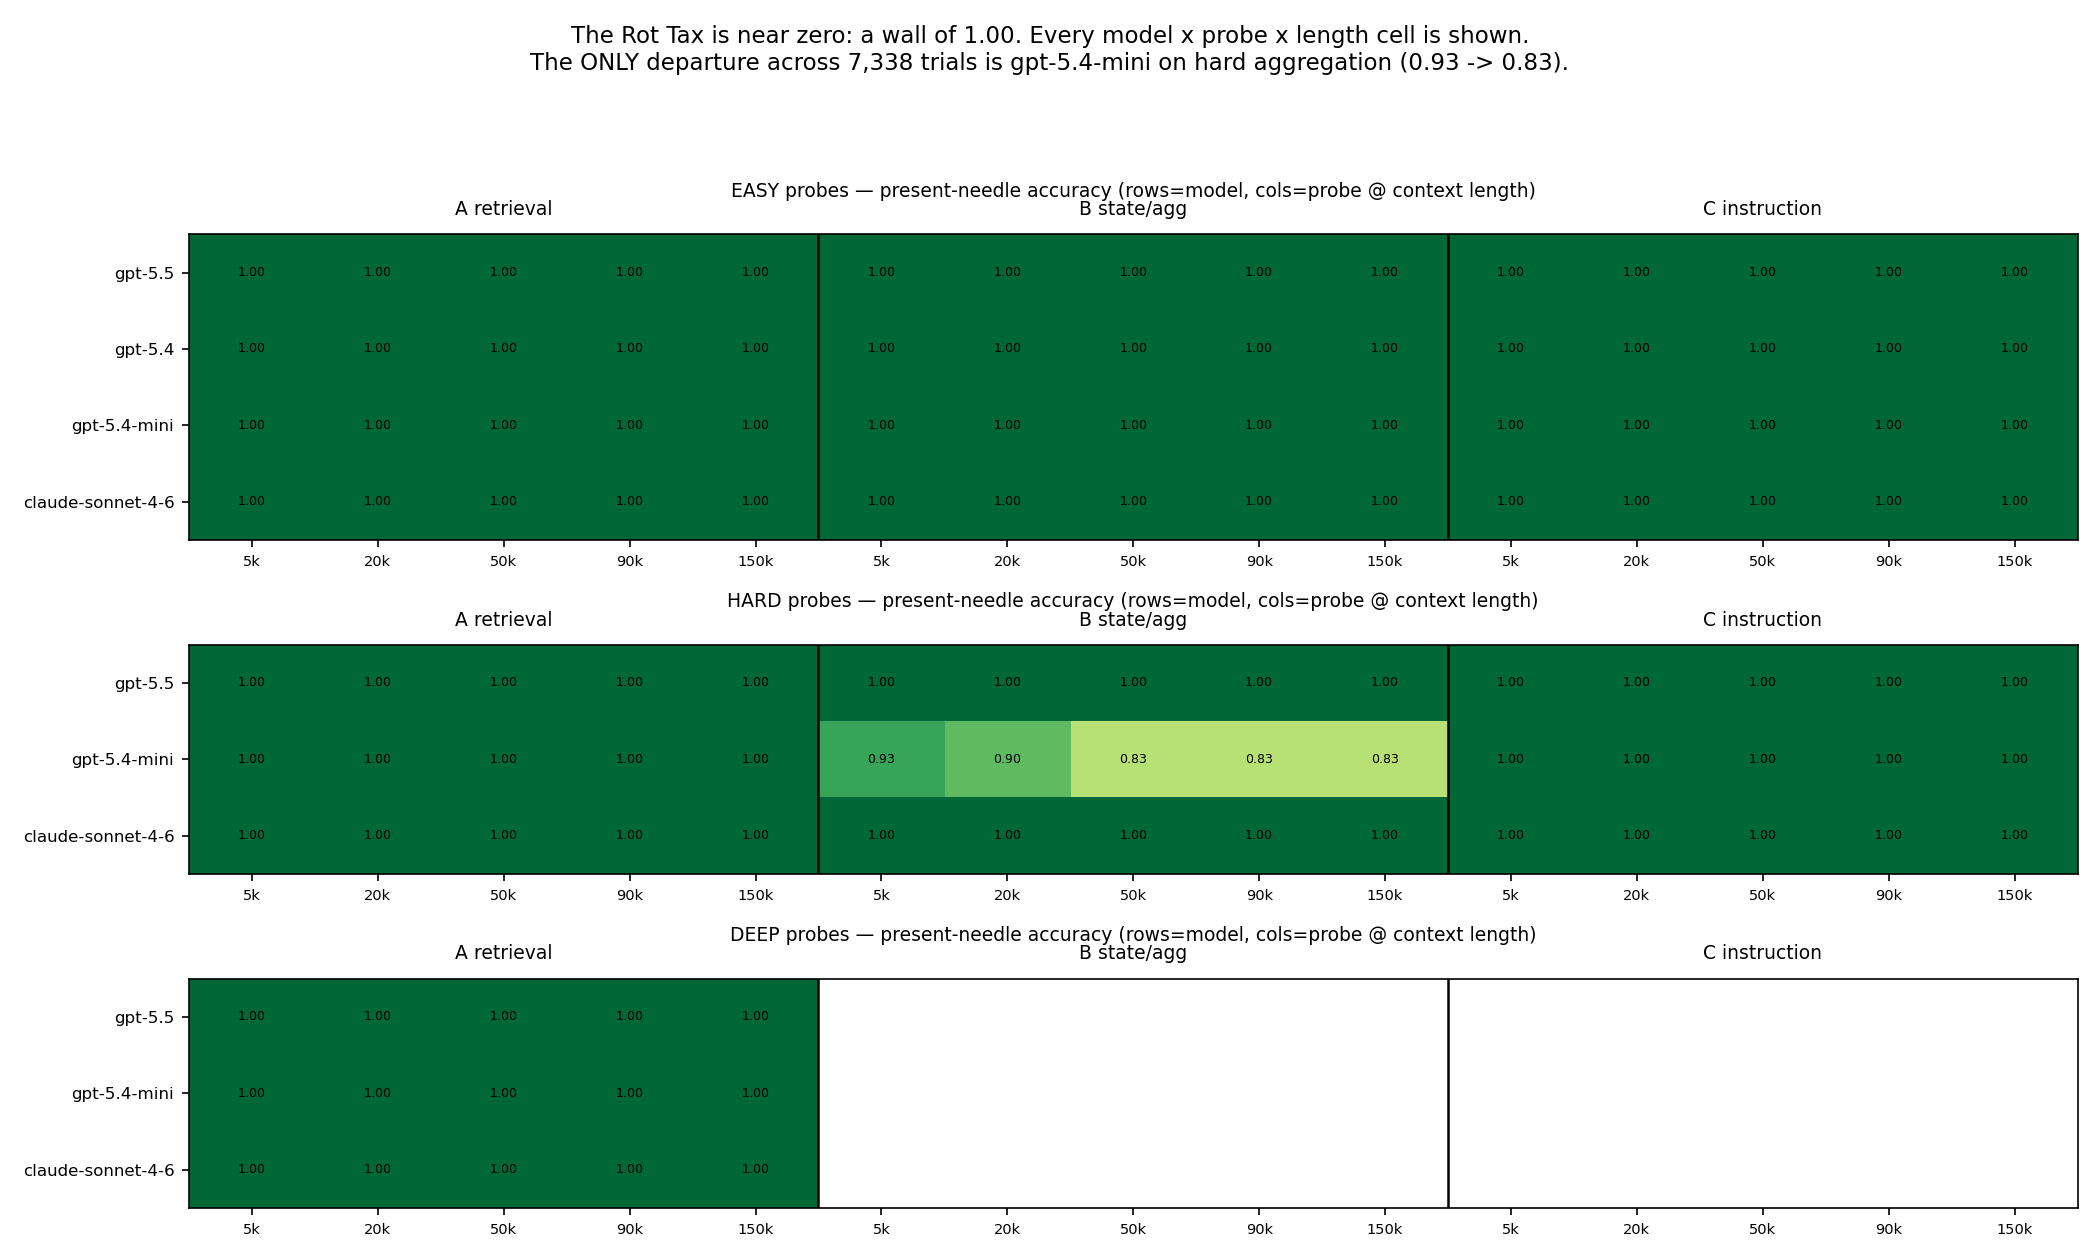
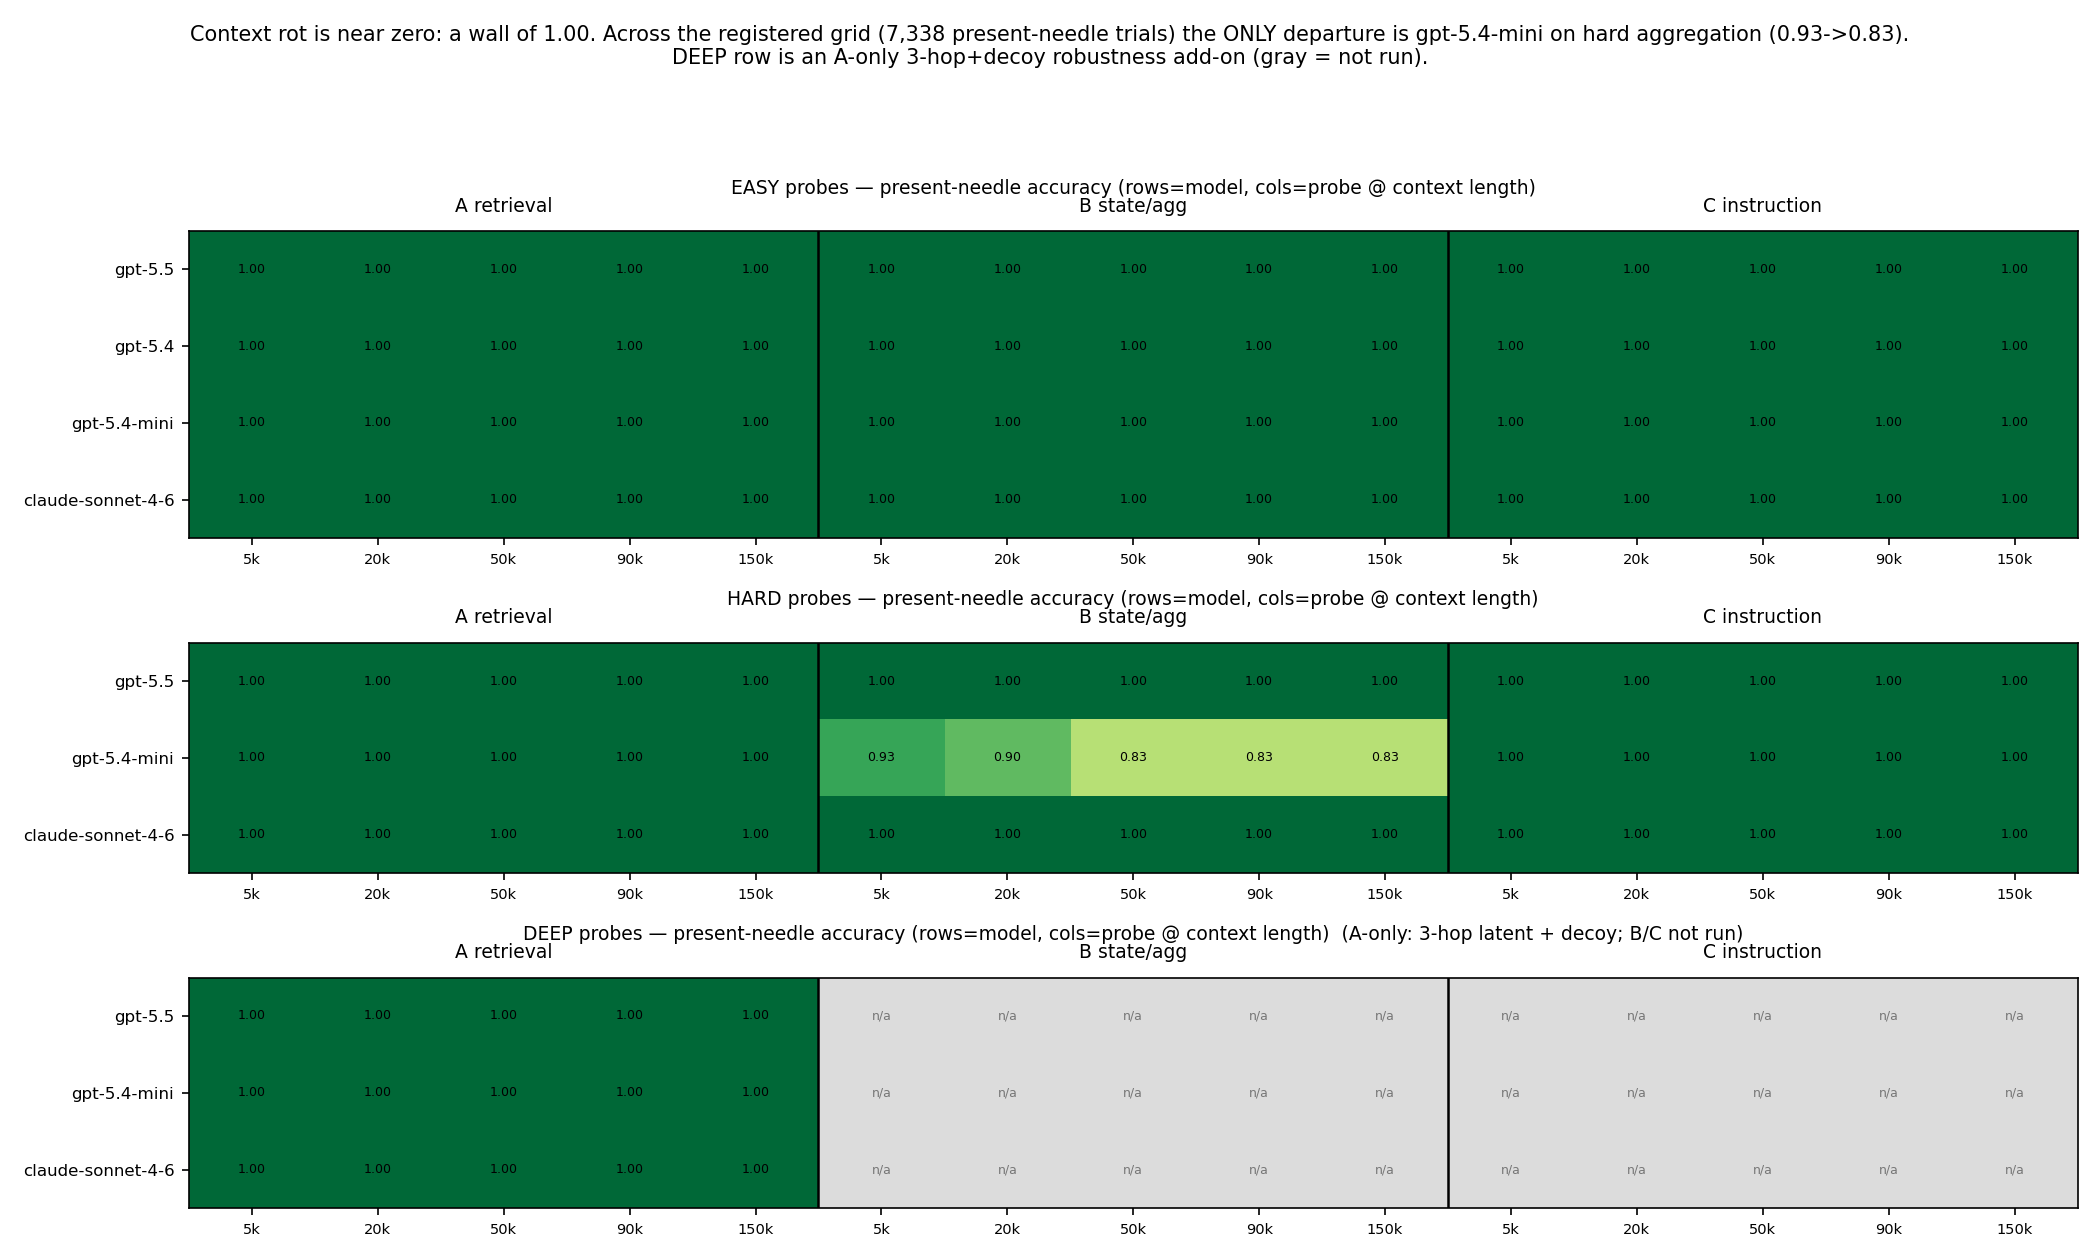
Figure: mark deep-row B/C as gray 'n/a' (A-only by design), clarify titles
Deep probe is latent-retrieval-only (closes the 2-hop limitation); B/C were
not run. Heatmap now renders not-run cells as gray 'n/a' instead of blank,
with the deep subplot title and suptitle stating it explicitly.

diff --git a/harness/paper_assets.py b/harness/paper_assets.py
@@ -131,25 +131,30 @@ def main():
                 cell = sub[(sub["model"] == m) & (sub["probe_id"] == p) & (sub["target_tokens"] == t)]
                 if len(cell):
                     M[i, j] = cell["passed"].mean()
-        im = ax.imshow(M, cmap="RdYlGn", vmin=0.5, vmax=1.0, aspect="auto")
+        cmap = matplotlib.cm.get_cmap("RdYlGn").copy()
+        cmap.set_bad("#dcdcdc")  # not-run cells render gray, distinct from any low score
+        im = ax.imshow(np.ma.masked_invalid(M), cmap=cmap, vmin=0.5, vmax=1.0, aspect="auto")
         ax.set_xticks(range(len(cols))); ax.set_xticklabels(col_labels, fontsize=7)
         ax.set_yticks(range(len(models))); ax.set_yticklabels(models, fontsize=8)
         for i in range(len(models)):
             for j in range(len(cols)):
                 v = M[i, j]
-                if not np.isnan(v):
+                if np.isnan(v):
+                    ax.text(j, i, "n/a", ha="center", va="center", fontsize=6, color="#777")
+                else:
                     ax.text(j, i, f"{v:.2f}", ha="center", va="center", fontsize=6,
                             color="black" if v > 0.7 else "white")
-        # probe-group separators + labels
         for k in range(1, len(PROBES)):
             ax.axvline(k * len(Ts) - 0.5, color="black", lw=1.2)
         for k, p in enumerate(PROBES):
             ax.text(k * len(Ts) + len(Ts) / 2 - 0.5, -0.75, PRETTY[p], ha="center", fontsize=9)
-        ax.set_title(f"{ps.upper()} probes — present-needle accuracy (rows=model, cols=probe @ context length)",
-                     fontsize=9, pad=18)
-    fig.suptitle("The Rot Tax is near zero: a wall of 1.00. Every model x probe x length cell is "
-                 "shown.\nThe ONLY departure across 7,338 trials is gpt-5.4-mini on hard "
-                 "aggregation (0.93 -> 0.83).", fontsize=11)
+        extra = "  (A-only: 3-hop latent + decoy; B/C not run)" if ps == "deep" else ""
+        ax.set_title(f"{ps.upper()} probes — present-needle accuracy "
+                     f"(rows=model, cols=probe @ context length){extra}", fontsize=9, pad=18)
+    fig.suptitle("Context rot is near zero: a wall of 1.00. Across the registered grid (7,338 "
+                 "present-needle trials) the ONLY departure is gpt-5.4-mini on hard aggregation "
+                 "(0.93->0.83).\nDEEP row is an A-only 3-hop+decoy robustness add-on (gray = not run).",
+                 fontsize=10)
     fig.tight_layout(rect=[0, 0, 1, 0.93])
     fig.savefig(RES / "fig_summary.png", dpi=150)
     print(f"wrote {RES/'fig_summary.png'}")